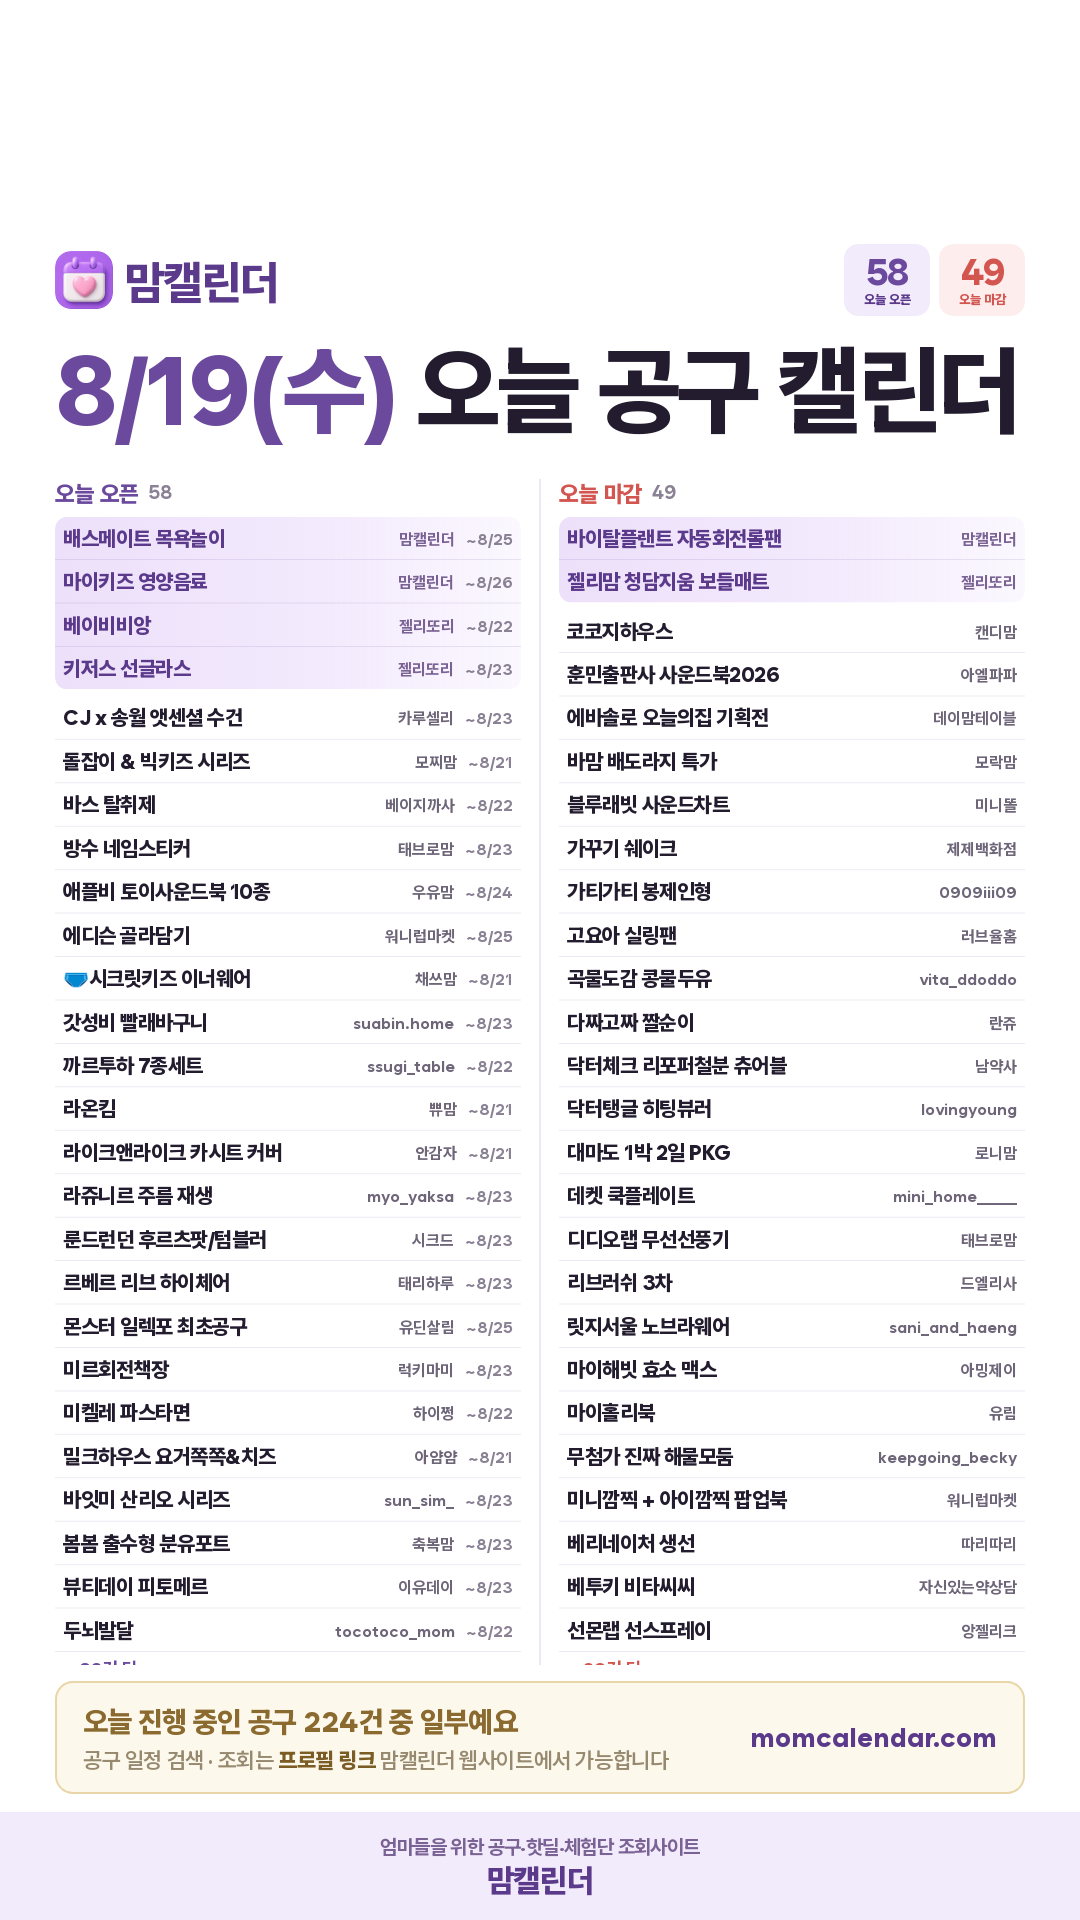
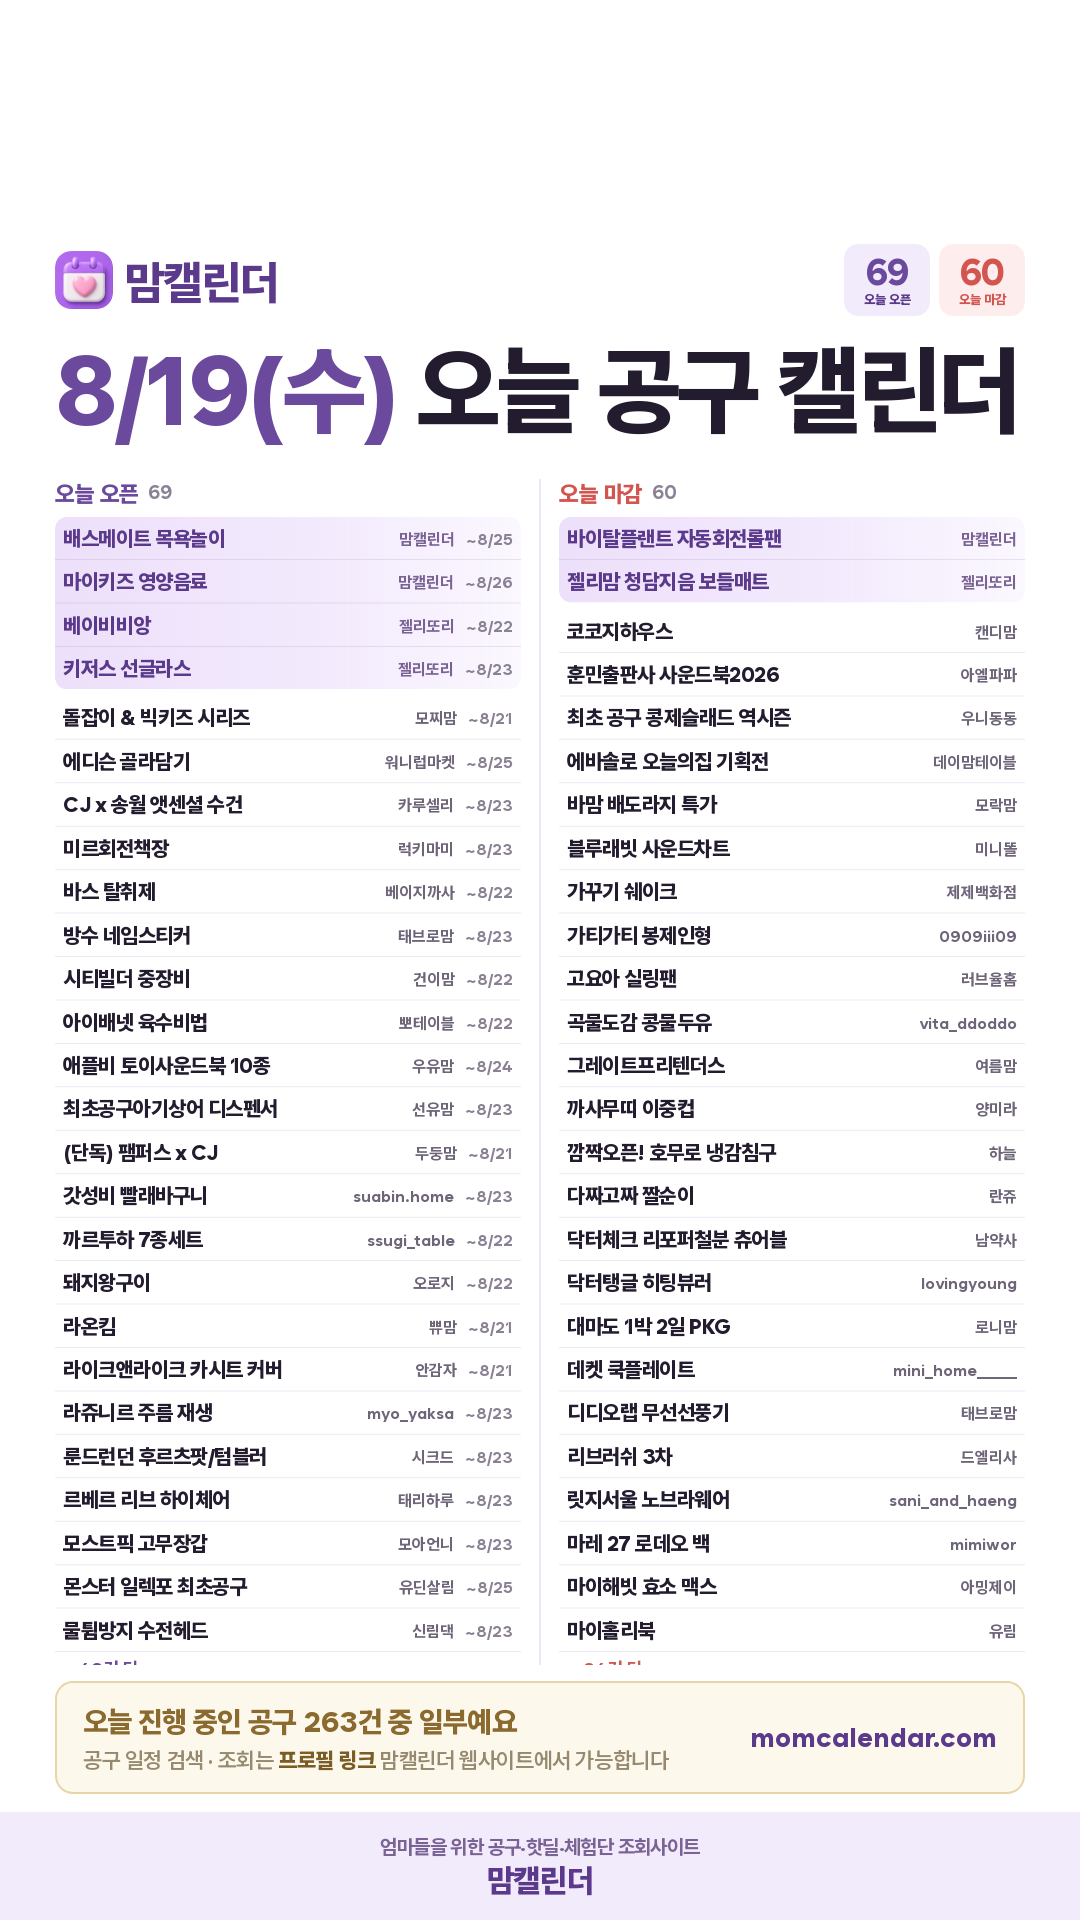
아침 인스타 카드 (2026-08-17)

diff --git a/daily/2026-08-19.html b/daily/2026-08-19.html
@@ -19,7 +19,7 @@ textarea{width:100%;height:260px;border:1px solid #E3DCEF;border-radius:10px;pad
 .todo p{font-size:12.5px;color:#6B6379;line-height:1.75;margin-top:6px}
 .todo a{color:#5B2E8C;font-weight:700}
 </style></head><body>
-<div class="hd"><div class="wrap"><h1>8월 19일(수) 인스타 카드</h1><p>오픈 58건 · 마감 49건</p></div></div>
+<div class="hd"><div class="wrap"><h1>8월 19일(수) 인스타 카드</h1><p>오픈 69건 · 마감 60건</p></div></div>
 <div class="wrap">
   <div class="todo"><b>사장님 확인 부탁드려요 · 링크프라이스 · 오늘의집 제휴 신청 (각 5분)</b><p>핫딜을 우리 수익링크로 바꿀 수 있는 곳을 늘리는 일입니다.<br>
     ① <b>링크프라이스</b> 로그인 → 머천트 검색 → <b>오늘의집·SSG</b> 제휴 신청
@@ -36,7 +36,7 @@ textarea{width:100%;height:260px;border:1px solid #E3DCEF;border-radius:10px;pad
 맘캘린더에서 공유드리는
 8월 19일(수) 오늘 공구 캘린더
 
-오픈 54건 · 마감 44건
+오픈 61건 · 마감 50건
 
 ━━━━━━━━━━━━━━
 
@@ -47,42 +47,43 @@ textarea{width:100%;height:260px;border:1px solid #E3DCEF;border-radius:10px;pad
 · 키저스 선글라스 — 젤리또리 @jelly_ddori (~8/23)
 
 🔓 오늘 오픈하는 공구
-· CJ x 송월 앳센셜 수건 — 카루셀리 (~8/23)
 · 돌잡이 &amp; 빅키즈 시리즈 — 모찌맘 (~8/21)
+· 에디슨 골라담기 — 워니럽마켓 (~8/25)
+· CJ x 송월 앳센셜 수건 — 카루셀리 (~8/23)
+· 미르회전책장 — 럭키마미 (~8/23)
 · 바스 탈취제 — 베이지까사 (~8/22)
 · 방수 네임스티커 — 태브로맘 (~8/23)
+· 시티빌더 중장비 — 건이맘 (~8/22)
+· 아이배넷 아기양념5종·육수비법 — 뽀테이블 (~8/22)
 · 애플비 토이사운드북 10종 — 우유맘 (~8/24)
-· 에디슨 골라담기 — 워니럽마켓 (~8/25)
-· 🩲시크릿키즈 유아 이너웨어 — 채쓰맘 (~8/21)
+· 최초공구아기상어 디스펜서 — 선유맘 (~8/23)
+· (단독) 팸퍼스 x CJ — 두둥맘 (~8/21)
 · 갓성비 빨래바구니 2차 — suabin.home (~8/23)
 · 까르투하 커트러리 7종세트 — ssugi_table (~8/22)
+· 돼지왕구이 — 오로지 (~8/22)
 · 라온킴 — 쀼맘 (~8/21)
 · 라이크앤라이크 카시트 커버 — 안감자 (~8/21)
 · 라쥬니르 앰플 미백·주름·재생 — myo_yaksa (~8/23)
 · 룬드런던 후르츠팟/텀블러 — 시크드 (~8/23)
 · 르베르 리브 하이체어 — 태리하루 (~8/23)
+· 모스트픽 고무장갑 — 모아언니 (~8/23)
 · 몬스터 워터포·일렉포 최초공구 — 유딘살림 (~8/25)
-· 미르회전책장 — 럭키마미 (~8/23)
+· 물튐방지 수전헤드(단독 첫공구) — 신림댁 (~8/23)
+· 미라클2단찜기 — miracle_eunju119 (~8/21)
 · 미켈레 포르투게제 파스타면 — 하이쩡 (~8/22)
 · 밀크하우스 수제 요거쪽쪽&amp;치즈 — 아얌얌 (~8/21)
 · 바잇미 산리오 시리즈 — sun_sim_ (~8/23)
 · 봄봄 출수형 분유포트 — 축복맘 (~8/23)
 · 뷰티데이 팜트리·피토메르 — 이유데이 (~8/23)
 · 블루래빗 두뇌발달 — tocotoco_mom (~8/22)
-· 샤넬 루쥬코코 글로스·듀오드밤 — mimiwor (~8/25)
-· 시티빌더 중장비 — 건이맘 (~8/22)
-· 신의주 스페셜 부대찌개·순대국 — 로라 (~8/23)
-· 실사워크북 — 오니맘 (~8/23)
-· 아이배넷 아기양념5종·육수비법 — 뽀테이블 (~8/22)
-· 아이앤어스 안심캡슐세제 — 명희홈쿡 (~8/21)
-· 예꼬맘 올인원 캡슐세제 — 나니맘 (~8/22)
-…나머지 21건은 맘캘린더 사이트에서 보실 수 있어요
+…나머지 28건은 맘캘린더 사이트에서 보실 수 있어요
 
 ⏰ 오늘 마감하는 공구
 · 바이탈플랜트 자동회전롤팬 — 맘캘린더 @momcal_
-· 젤리맘 청담지움 보들매트 — 젤리또리 @jelly_ddori
+· 젤리맘 청담지음 보들매트 — 젤리또리 @jelly_ddori
 · 코코지하우스 — 캔디맘
 · 훈민출판사 터치터치 사운드북2026 — 아엘파파
+· 최초 공구 콩제슬래드 역시즌 — 우니동동
 · 에바솔로 오늘의집 기획전 — 데이맘테이블
 · 바맘 배도라지 특가 — 모락맘
 · 블루래빗 사운드차트 — 미니똘
@@ -90,26 +91,25 @@ textarea{width:100%;height:260px;border:1px solid #E3DCEF;border-radius:10px;pad
 · 가티가티 봉제인형 — 0909iii09
 · 고요아 실링팬 — 러브율홈
 · 곡물도감 콩물두유 — vita_ddoddo
+· 그레이트프리텐더스 키즈악세사리 — 여름맘
+· 까사무띠 이중컵 — 양미라
+· 깜짝오픈! 호무로 냉감침구 — 하늘
 · 다짜고짜 짤순이 — 란쥬
-· 닥터체크 리포퍼철분 츄어블(자두맛😋) — 남약사
+· 닥터체크 리포퍼철분 츄어블(자두맛) — 남약사
 · 닥터탱글 히팅뷰러 — lovingyoung
 · 대마도 1박 2일 PKG — 로니맘
 · 데켓 쿡플레이트 — mini_home_____
 · 디디오랩 무선선풍기 — 태브로맘
 · 리브러쉬 3차 — 드엘리사
 · 릿지서울 노브라웨어 — sani_and_haeng
+· 마레 27 로데오 백 — mimiwor
 · 마이해빗 효소 맥스 — 아밍제이
 · 마이홀리북 — 유림
 · 무첨가 진짜 해물모둠 — keepgoing_becky
 · 미니깜찍 + 아이깜찍 팝업북 — 워니럽마켓
 · 베리네이처 생선 — 따리따리
-· 베투키 비타씨씨 — 자신있는약상담
-· 선몬랩 선스프레이 — 앙젤리크
-· 알러지프리 세탁세제&amp;섬유유연제 — 마이아
-· 에어랩 거치대 — 로제티아홈
-· 온가족 비타민DK2 1000IU — yak_father
-· 올스텐 무타공 행주걸이 — 해달홈
-…나머지 14건은 맘캘린더 사이트에서 보실 수 있어요
+· 베이비앙 배변훈련팬티 — 하정맘
+…나머지 20건은 맘캘린더 사이트에서 보실 수 있어요
 
 ━━━━━━━━━━━━━━
 
@@ -122,12 +122,12 @@ textarea{width:100%;height:260px;border:1px solid #E3DCEF;border-radius:10px;pad
 ⚠ 공구 일정은 판매자 사정에 따라 변경되거나 조기 마감될 수 있어요. 구매 전에 해당 셀러 계정에서 한 번 더 확인해 주세요.
 
 #맘캘린더 #공구일정 #육아공구 #육아용품 #책육아 #공구정보 #육아템 #먹거리공구 #살림템 #교구 #유모차 #영양제</textarea>
-    <div class="meta">2191자 / 2200자 · 오픈 29/50 · 마감 30/44</div>
+    <div class="meta">2183자 / 2200자 · 오픈 29/57 · 마감 30/50</div>
     <button class="btn btn2" onclick="cp('cap','캡션')">캡션 복사</button>
   </div>
   <div class="card">
     <div class="meta" style="margin:0 0 8px;font-weight:800;color:#5B2E8C">네이버 블로그용 (blog.naver.com/momcal) — 수정해서 쓰셔도 돼요</div>
-    <textarea id="btitle" style="height:54px">8월 19일(수) 8월 공구일정 달력 | CJ·퓨어옴유산균·피치힐·BrandA·갓성비·까르투하·룬드런던·르베르 공구 오픈</textarea>
+    <textarea id="btitle" style="height:54px">8월 19일(수) 8월 공구일정 달력 | CJ·물튐방지·퓨어옴유산균·피치힐·단독·BrandA·Hoo·갓성비 공구 오픈</textarea>
     <button class="btn btn2" onclick="cp('btitle','블로그 제목')">블로그 제목 복사</button>
     <textarea id="bbody" style="margin-top:9px">맘캘린더 채널 한눈에
 · 전체 공구 일정 실시간 검색 → https://momcalendar.com
@@ -140,15 +140,14 @@ textarea{width:100%;height:260px;border:1px solid #E3DCEF;border-radius:10px;pad
 · 카톡 수다방 → https://open.kakao.com/o/gr2kJhCh
 ─────────────
 
-8월 19일(수), 오늘 새로 오픈하는 인스타 공구일정 58건을 카테고리별로 정리했어요.
-오늘 마감되는 공구도 49건 있으니 놓치지 마세요.
+8월 19일(수), 오늘 새로 오픈하는 인스타 공구일정 69건을 카테고리별로 정리했어요.
+오늘 마감되는 공구도 60건 있으니 놓치지 마세요.
 
 (여기에 저장해 두신 카드 사진을 넣어주세요)
 
-■ 오늘 오픈하는 공구 58건
+■ 오늘 오픈하는 공구 69건
 
 [육아]
-· 🩲시크릿키즈 유아 이너웨어 — 채쓰맘 (~8/21 마감)
 · 국내유일 유기농 무무쿡 — 모찌맘 (~8/21 마감)
 · 돌잡이 &amp; 빅키즈 시리즈 — 모찌맘 (~8/21 마감)
 · 라온킴 — 쀼맘 (~8/21 마감)
@@ -161,32 +160,39 @@ textarea{width:100%;height:260px;border:1px solid #E3DCEF;border-radius:10px;pad
 · 베이비비앙 — 젤리또리 (~8/22 마감)
 · 봄봄 출수형 분유포트 — 축복맘 (~8/23 마감)
 · 블루래빗 두뇌발달 — tocotoco_mom (~8/22 마감)
+· 시크릿키즈 유아 이너웨어 — 채쓰맘 (~8/21 마감)
 · 시티빌더 중장비 — 건이맘 (~8/22 마감)
 · 실사워크북 — 오니맘 (~8/23 마감)
 · 아이배넷 아기양념5종·육수비법 — 뽀테이블 (~8/22 마감)
 · 애플비 토이사운드북 10종 — 우유맘 (~8/24 마감)
+· 언어천재 말놀이 — 건이맘 (~8/22 마감)
 · 에디슨 골라담기 — 워니럽마켓 (~8/25 마감)
 · 유주맘X와따네 보드 기획전 — 유주맘(윤예진) (~8/23 마감)
 · 이몽 거즈햇 — 라뷰베어 (~8/23 마감)
 · 일프로 가을 시즌 — 나율맘 (~8/23 마감)
-· 최초공구⭐아기상어 디스펜서 — 선유맘 (~8/23 마감)
+· 최초공구아기상어 디스펜서 — 선유맘 (~8/23 마감)
 · 코에르 미끄럼방지매트 — 유주맘(박은영) (~8/24 마감)
 · 키저스 선글라스 — 젤리또리 (~8/23 마감)
 · 티니핑 미아방지 목걸이 — 온이프홈 (~8/23 마감)
 · 팸퍼스 기저귀 — 두둥맘 (~8/21 마감)
+· 프리맘 플레이하우스 — 둘찌맘 (~8/21 마감)
 
 [리빙]
+· (단독) 팸퍼스 x CJ — 두둥맘 (~8/21 마감)
 · BrandA 블랙청소포 — 쏘핑네흰집 (~8/22 마감)
 · CJ x 송월 앳센셜 수건 — 카루셀리 (~8/23 마감)
+· Hoo 라운드 어린이 하이체어 — 누누홈 (~8/22 마감)
 · 갓성비 빨래바구니 2차 — suabin.home (~8/23 마감)
 · 까르투하 커트러리 7종세트 — ssugi_table (~8/22 마감)
 · 룬드런던 후르츠팟/텀블러 — 시크드 (~8/23 마감)
 · 르베르 리브 하이체어 — 태리하루 (~8/23 마감)
+· 모스트픽 고무장갑 — 모아언니 (~8/23 마감)
 · 몬스터 워터포·일렉포 최초공구 — 유딘살림 (~8/25 마감)
 · 바스 탈취제 — 베이지까사 (~8/22 마감)
 · 바스 탈취제 8차 — 윤우가자라는집 (~8/23 마감)
 · 아이앤어스 안심캡슐세제 — 명희홈쿡 (~8/21 마감)
 · 예꼬맘 올인원 캡슐세제 — 나니맘 (~8/22 마감)
+· 정리에 진심 플레이조이 — 다다맘 (~8/24 마감)
 · 클라 세제 — 밀커블 (~8/23 마감)
 · 터블 — 소이맘 (~8/22 마감)
 · 플레이조이 정리함 6차 — 다다맘 (~8/24 마감)
@@ -194,6 +200,8 @@ textarea{width:100%;height:260px;border:1px solid #E3DCEF;border-radius:10px;pad
 · 헤라스 유기농 김 2차 — 몰리짱 (~8/26 마감)
 
 [식품]
+· 돼지왕구이 — 오로지 (~8/22 마감)
+· 미라클2단찜기 — miracle_eunju119 (~8/21 마감)
 · 미켈레 포르투게제 파스타면 — 하이쩡 (~8/22 마감)
 · 밀크하우스 수제 요거쪽쪽&amp;치즈 — 아얌얌 (~8/21 마감)
 · 신의주 스페셜 부대찌개·순대국 — 로라 (~8/23 마감)
@@ -206,6 +214,7 @@ textarea{width:100%;height:260px;border:1px solid #E3DCEF;border-radius:10px;pad
 
 [뷰티]
 · AZH 샴푸 — 드엘리사 (~8/25 마감)
+· NEW ITEM — lovingyoung (~8/23 마감)
 · 라쥬니르 앰플 미백·주름·재생 — myo_yaksa (~8/23 마감)
 · 뷰티데이 팜트리·피토메르 — 이유데이 (~8/23 마감)
 · 샤넬 루쥬코코 글로스·듀오드밤 — mimiwor (~8/25 마감)
@@ -213,6 +222,10 @@ textarea{width:100%;height:260px;border:1px solid #E3DCEF;border-radius:10px;pad
 
 [가전]
 · CJ 몬스터 워터포·일렉포 — 유딘살림 (~8/25 마감)
+· 물튐방지 수전헤드(단독 첫공구) — 신림댁 (~8/23 마감)
+
+[패션]
+· 샤넬 레베쥬 쿠션 — mimiwor (~8/25 마감)
 
 [인테리어]
 · 졸리하우스 에어 소파 — ming_9.3 (~8/22 마감)
@@ -221,15 +234,19 @@ textarea{width:100%;height:260px;border:1px solid #E3DCEF;border-radius:10px;pad
 · 바잇미 산리오 시리즈 — sun_sim_ (~8/23 마감)
 · 페노비스 강아지 치약, 덴탈껌 — 0909iii09 (~8/23 마감)
 
-■ 오늘 마감하는 공구 49건
-· YDY 액티브헴철❤ — 남약사
+■ 오늘 마감하는 공구 60건
+· YDY 액티브헴철 — 남약사
 · 가꾸기 쉐이크 — 제제백화점
 · 가티가티 봉제인형 — 0909iii09
+· 가티가티 인형 — 0909iii09
 · 견수성찬 메추리 — 0909iii09
 · 고요아 실링팬 — 러브율홈
 · 곡물도감 콩물두유 — vita_ddoddo
+· 그레이트프리텐더스 키즈악세사리 — 여름맘
+· 까사무띠 이중컵 — 양미라
+· 깜짝오픈! 호무로 냉감침구 — 하늘
 · 다짜고짜 짤순이 — 란쥬
-· 닥터체크 리포퍼철분 츄어블(자두맛😋) — 남약사
+· 닥터체크 리포퍼철분 츄어블(자두맛) — 남약사
 · 닥터탱글 히팅뷰러 — lovingyoung
 · 대마도 1박 2일 PKG — 로니맘
 · 데켓 쿡플레이트 — mini_home_____
@@ -238,17 +255,24 @@ textarea{width:100%;height:260px;border:1px solid #E3DCEF;border-radius:10px;pad
 · 리브러쉬 3차 — 드엘리사
 · 릿지서울 노브라웨어 — sani_and_haeng
 · 마그네틱블럭 — 태브로맘
+· 마레 27 로데오 백 — mimiwor
 · 마이해빗 효소 맥스 — 아밍제이
 · 마이홀리북 — 유림
+· 목의보감 배도라지즙&amp;얼려먹는 스무디3종 — 1201w__love
 · 무첨가 진짜 해물모둠 — keepgoing_becky
+· 무첨가 해물모둠 &amp; 오징어 — keepgoing_becky
 · 미니깜찍 + 아이깜찍 팝업북 — 워니럽마켓
 · 바맘 배도라지 특가 — 모락맘
 · 바이탈플랜트 자동회전롤팬 — 맘캘린더
 · 베리네이처 생선 — 따리따리
+· 베이비앙 배변훈련팬티 — 하정맘
 · 베투키 비타씨씨 — 자신있는약상담
+· 봄봄 — 0909iii09
+· 브론즈 X 도펠헤르츠 — 브론즈
 · 블루래빗 사운드차트 — 미니똘
 · 선몬랩 선스프레이 — 앙젤리크
 · 알러지프리 세탁세제&amp;섬유유연제 — 마이아
+· 에듀플레이어 일체형 DVD플레이어 — 러블리트니
 · 에바솔로 오늘의집 기획전 — 데이맘테이블
 · 에어랩 거치대 — 로제티아홈
 · 온가족 비타민DK2 1000IU — yak_father
@@ -256,7 +280,7 @@ textarea{width:100%;height:260px;border:1px solid #E3DCEF;border-radius:10px;pad
 · 이너클린 아랫배쏙 + 탄수컷팅 차전자피 — 켜니
 · 자동 연필깎이 — 명희홈쿡
 · 잼버스 라마즈 — 두둥맘
-· 젤리맘 청담지움 보들매트 — 젤리또리
+· 젤리맘 청담지음 보들매트 — 젤리또리
 · 주니 러닝타워 — 돼지수
 · 주니 빨대컵·자기주도컵 모음전 — 또마맘
 · 초강력 에어건 — 마이어홈
@@ -272,9 +296,14 @@ textarea{width:100%;height:260px;border:1px solid #E3DCEF;border-radius:10px;pad
 · 효소세안제 라클리어 7차 — 바이바나
 · 훈민출판사 터치터치 사운드북2026 — 아엘파파
 
+■ 오늘의 브랜드: CJ
+· CJ 공구는 인스타 셀러들이 기간을 정해 여는 공동구매예요. 최근에는 카루셀리, 유딘살림, 더위시 님이 진행했어요.
+· 가격은 오픈일에 셀러 계정 공지로 공개돼요. 같은 제품이라도 셀러·구성에 따라 조금씩 달라서, 공지에서 확인하는 게 가장 정확해요.
+· 이번에 놓쳤다면 너무 아쉬워하지 마세요. CJ 공구는 보통 일정 간격을 두고 다시 열려요. 전체 일정은 여기서 → https://momcalendar.com/g/CJ.html
+
 ※ 공구 일정은 판매자 사정에 따라 변경되거나 조기 마감될 수 있어요. 구매 전에 해당 셀러 계정에서 한 번 더 확인해 주세요.
 
-#공구일정 #인스타공구 #인스타공구일정 #공동구매 #오늘의공구 #육아공구 #공구모음 #CJ공구 #퓨어옴유산균공구 #피치힐공구 #BrandA공구 #갓성비공구 #까르투하공구 #룬드런던공구 #르베르공구</textarea>
+#공구일정 #인스타공구 #인스타공구일정 #공동구매 #오늘의공구 #육아공구 #공구모음 #CJ공구 #물튐방지공구 #퓨어옴유산균공구 #피치힐공구 #단독공구 #BrandA공구 #Hoo공구 #갓성비공구</textarea>
     <button class="btn" onclick="cp('bbody','블로그 본문 전체')">블로그 본문 전체 복사 (태그 포함)</button>
     <div class="meta">순서: 사진 저장 → 블로그 앱 글쓰기 → 제목 붙여넣기 → 본문 붙여넣기 → (여기에 카드 사진) 자리에 사진 → 발행. 끝의 #태그들은 자동으로 태그가 돼요</div>
   </div>

diff --git a/daily/index.html b/daily/index.html
@@ -1,1 +1,1 @@
-<!DOCTYPE html><meta charset="UTF-8"><meta http-equiv="refresh" content="0;url=./2026-08-18.html">
+<!DOCTYPE html><meta charset="UTF-8"><meta http-equiv="refresh" content="0;url=./2026-08-19.html">
